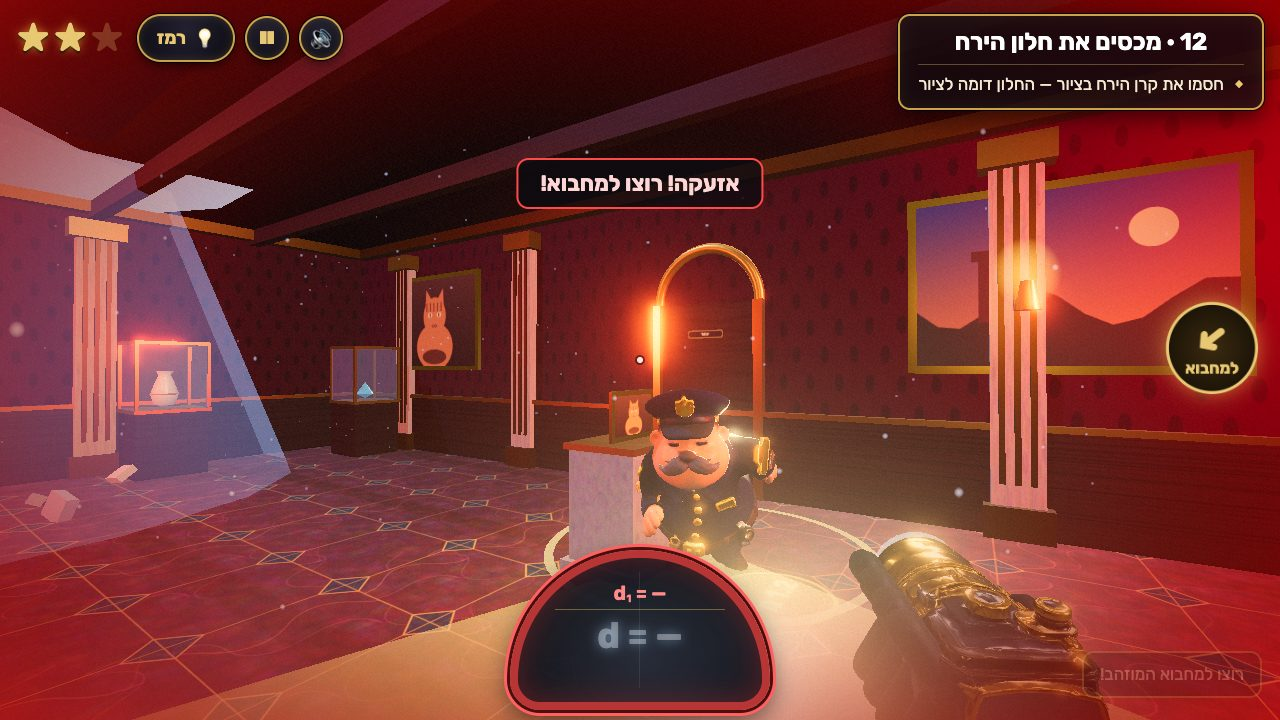
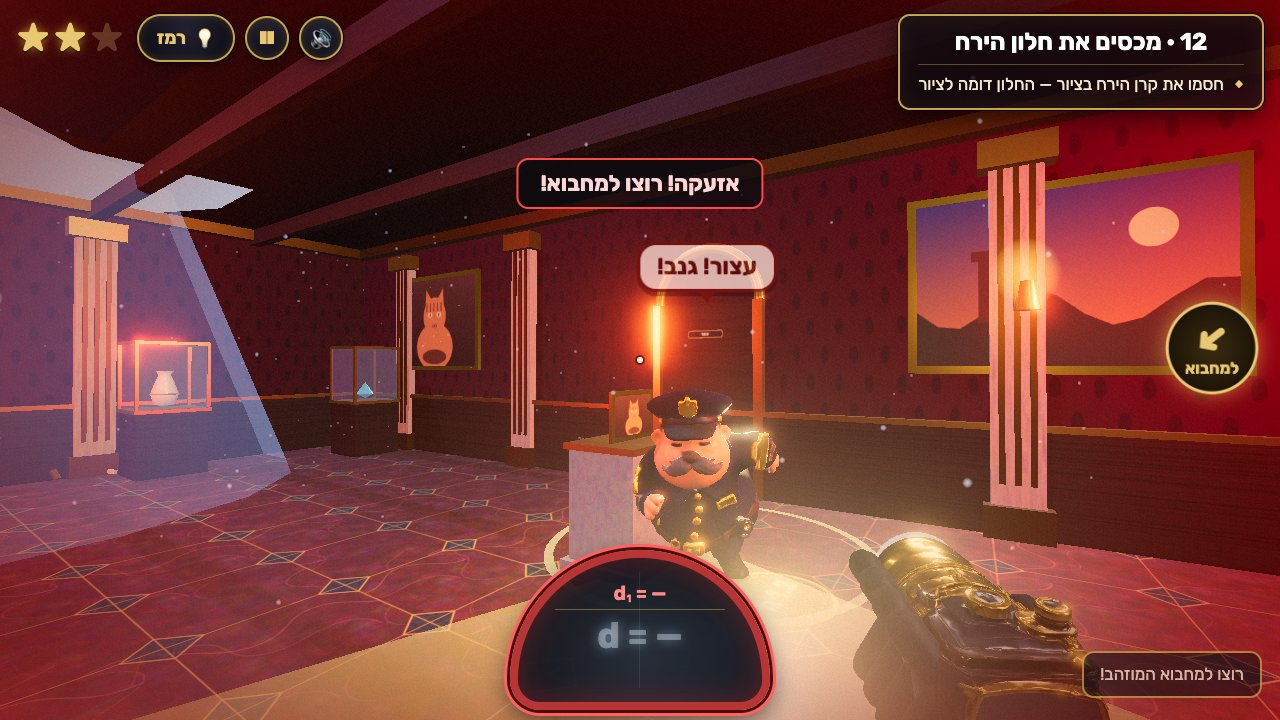
Refresh captures and docs for the 'even better' pass (all 18 levels re-verified 3 stars, 60 fps)

diff --git a/README.md b/README.md
@@ -9,10 +9,11 @@ Hebrew RTL UI, Three.js, 18 authored levels in 5 halls, plus generated "surprise
 ```bash
 npm install
 npm run dev        # http://localhost:5214  (strict port)
-npm test           # 64 unit tests: rules, all 18 levels solvable through the sim, misconception traps
+npm test           # 65 unit tests: rules, all 18 levels solvable through the sim, misconception traps
 npm run build      # static build in dist/ (relative base, works offline)
 npm run preview    # http://localhost:4214
 npm run capture    # needs the dev server: plays scenarios in headless Chromium, saves screenshots
+node tests/audio-check.mjs   # needs the dev server: measures each hall's music/ambience level, chase layer, heartbeat
 ```
 
 URL options: `?level=N` jumps into a level, `?unlock=all` unlocks the whole map (for teachers/testing).
@@ -32,14 +33,16 @@ The lens HUD shows the locked grab distance **d₁** and the live rangefinder di
 
 ## What's implemented
 
-- **18 authored levels** (`src/levels.ts`): Gallery of Lengths (1–5), Hall of Shadows (6–10, real shadow-casting light, AA similar triangles), Canvas & Carpet (11–15, perimeter k vs area k²), The Vault (16–17, k³ extension and congruence k = 1), and the no-hints rooftop finale at dawn (18) with a patrolling guard who only moves while you move. Each world ends in a transfer level. See `LEVELS.md` for every level's numbers and solution, and `CURRICULUM.md` for the Workbook module links.
+- **18 authored levels** (`src/levels.ts`; levels 9, 11, 15 and 16 re-authored from the handoff so that no fixed "drop at N × grab" wins more than 4 of 21 targets): Gallery of Lengths (1–5), Hall of Shadows (6–10, real shadow-casting light, AA similar triangles), Canvas & Carpet (11–15, perimeter k vs area k²), The Vault (16–17, k³ extension and congruence k = 1), and the no-hints rooftop finale at dawn (18) with a patrolling guard who only moves while you move. Each world ends in a transfer level. See `LEVELS.md` for every level's numbers and solution, and `CURRICULUM.md` for the Workbook module links.
 - **Pure math** in `src/rules.ts` (ratio, k windows for powers 1/2/3, drop verdicts, worked explanations, stars) and a **headless sim** in `src/sim.ts` (movement, aiming, grab/drop, consequences, guard, stealth). The Three.js scene only renders the sim.
 - **Consequences:** crash and roof-crash (alarm, guard chase, hide in a sarcophagus or get caught), fall-through, blown away by the vent fan, pocketed by the guard, too short, gap left, jam (wrong corresponding sides), not similar. Every mistake is recoverable and is followed by a worked-ratio card that reveals more on each repeated miss (ratio used → ratio kind → needed k). A drop anywhere but a target sends the exhibit back to its pedestal.
 - **Tripo 3D models** (`public/models/`, see `ASSETS.md`): rigged night guard (walk/run/look-around/scratch-head/fall), rigged raccoon accomplice (idle/greet/cheer), lens-in-glove view model, dinosaur crate, bust, statue, upright sarcophagus. Everything that carries a number is procedural and exact.
 - **Progression:** five halls, each a new subject at a higher tier — Gallery of Lengths (מתחילים), Hall of Shadows (בינוני), Canvas & Carpet (מתקדם), The Vault (מומחה · הרחבה), Rooftop finale (אתגר סופי). Levels unlock in order; a hall briefing introduces each new subject; any finished level can be replayed from the map for more stars; clearing a hall opens its **★ challenge rooms** (fresh solver-checked numbers every time).
-- **Presentation:** cinematic level intro (letterbox fly-in with hall, tier and objective; any key skips), results screen (stars, drop accuracy, time, badges, what you practised, what unlocked), success stamp with the k you used, slow-mo, gold shockwave, roof-crash camera tilt, per-hall music.
-- **Art:** per-hall inlaid marble floors / herringbone parquet, fluted pilasters, chandeliers, walnut-panelled mezzanines, glass display cases, a spotlight on every target, drifting dust, cinematic colour grade; a lit dawn skyline with string lights on the rooftop.
-- **3D level select** (a museum diorama on a planning table, right-to-left), stars and progress saved in `localStorage`, hints, pause (mouse sensitivity, reduced motion, mute), touch controls, Hebrew Rubik font bundled.
+- **Presentation:** cinematic level intro (letterbox fly-in with hall, tier and objective; any key skips), results screen (stars, drop accuracy, time and personal best, badges, **your worked solution** — ratio → k → d₂ — for every fit, what you practised, what unlocked, rank-ups), success stamp with the k you used, slow-mo, gold shockwave, roof-crash camera tilt. The guard and the raccoon talk in speech bubbles ("עצור! גנב!", "לאן נעלמת…?"); a player stuck for 40 s gets a free raccoon nudge that points at the placards/plates or restates d₂ = k × d₁ (never the answer).
+- **Sound:** all synthesized (no files): a lookahead music sequencer with a chord pad, pizzicato bass, brushed drums and a bell motif per hall, a generated hall reverb, a faster chase layer during the alarm, a heartbeat that quickens as the guard nears, and ambience per hall (room air, vault hum, rooftop wind).
+- **Progression extras:** thief ranks by total stars (כייס מתחיל → אגדת המוזיאון), personal-best time per level.
+- **Art:** per-hall inlaid marble floors / herringbone parquet, fluted pilasters, chandeliers, walnut-panelled mezzanines, glass display cases, a spotlight on every target, museum uplight washes in the Hall of Shadows, drifting dust, cinematic colour grade; a lit dawn skyline with string lights on the rooftop.
+- **3D level select** (a museum diorama on a chalk blueprint of the heist, right-to-left, a tiny guard patrolling the rooftop), stars and progress saved in `localStorage`, hints, pause (mouse sensitivity, reduced motion, mute), touch controls, Hebrew Rubik font bundled.
 - **Challenge rooms:** built from each hall's templates (two per hall) with new numbers, verified by the solver: solvable through the sim, and the constant "drop at 2× grab" strategy fails (tested on 100 seeds).
 - **Learning log:** anonymous local events (level, d₁, d₂, k, needed k, outcome, hint used, attempt, first unaided decision) in `localStorage` (`perspective-thief:learn`); `window.learning_log()` returns them.
 - **Test hooks:** `window.render_game_to_text()` (full state as JSON) and `window.advanceTime(ms)` (deterministic steps, respects pause).
@@ -52,7 +55,7 @@ The lens HUD shows the locked grab distance **d₁** and the live rangefinder di
 
 ## Measured
 
-- Production build: JS 875 KB (234 KB gzip), CSS 19 KB, models 5.9 MB total (`dist/` 7.2 MB). No runtime network requests beyond the static files.
+- Production build: JS 914 KB (247 KB gzip), CSS 19 KB, models 5.9 MB total (`dist/` 7.2 MB). No runtime network requests beyond the static files.
 - Frame rate (`node tests/perf.mjs`, headless Chromium on this Mac's GPU): 60 fps at 1280×720 and 1920×1080 on levels 1, 6, 12 and 18. Not measured on phones.
 
 ## Deploy to Vercel (when you want to)

diff --git a/progress.md b/progress.md
@@ -16,14 +16,15 @@ Original prompt: build Perspective Thief (גנב הפרספקטיבה), a real-3
 9. **AAA pass (user request: "make it look awesome… test each and every level… until it's perfect")**: audited all 18 levels from contact sheets; new room art (floors, pilasters, chandeliers, panels, cases, target spotlights, dust, grade), deep chasm, gloved brass lens, rooftop city/sun/string lights; cinematic intro, hall briefings with difficulty tiers, results screen with accuracy and badges, challenge rooms on the map (two templates per hall), success stamp, slow-mo, shockwave, per-hall music, sensitivity setting. Fixed z-fighting, and a global bug where sun shadows only existed within 5 m of each room's centre.
 10. **Round-2 playtest** (`PLAYTEST2.md`): every level played with three wrong drops each; 21 findings; all but the ×3-constant one fixed (see the response table). Re-verified all 18 levels in the browser.
 
+11. **"Make it even better" pass**: re-authored levels 9 (k 3.5, a 1.75 m balcony you can't climb), 11 (k 3.5), 15 (k 4, a bigger frame) and 16 (k 2) so "always drop at 3× grab" wins 3 targets instead of 7 (traps test now caps every constant at 4 targets / 3 levels); new audio engine (per-hall layered music, reverb, chase layer, heartbeat, ambience; `tests/audio-check.mjs`); guard and raccoon speech bubbles; worked solution on the results screen; personal bests and thief ranks; idle raccoon nudge; uplight washes in the Hall of Shadows; chalk blueprint and a patrolling guard on the map; fixed giant sparkles around tall held objects.
+
 ## State
 
-- `npm test`: 64/64 pass. `npm run build`: OK. Dev server: port 5214.
-- Measured 60 fps (headless GPU, 720p/1080p). Bundle: JS 875 KB (234 KB gz), models 5.9 MB.
+- `npm test`: 65/65 pass. `npm run build`: OK. Dev server: port 5214.
+- Measured 60 fps (headless GPU, 720p/1080p). Bundle: JS 914 KB (247 KB gz), models 5.9 MB.
 
 ## TODO / ideas
 
 - More set dressing per hall (display cases, armour, vases) to reach the mockups' density.
-- A darker, moodier Hall of Shadows.
 - Real-device check (phone/tablet), a classroom test with students.
 - Optional: code-split three.js examples to shrink the first load.

diff --git a/docs/VISUAL_REVIEW.md b/docs/VISUAL_REVIEW.md
@@ -1,5 +1,7 @@
 # Visual review — mockups vs the real game
 
+> **Update 2026-10-31 ("even better" pass):** the level-select table is now a chalk blueprint of the heist (lens rule, similar triangles, the length/area/volume ratios) with a tiny guard patrolling the rooftop diorama (`00-menu.jpg`); the Hall of Shadows has museum uplight washes so its walls read in the dark (`levels-*-aim.jpg`, levels 6–10); the guard and raccoon speak in speech bubbles (`03b-guard-chase.jpg`); the results screen shows your worked solution and personal best (`05c-results.jpg`).
+
 > **Update 2026-10-31 (AAA pass):** the halls now have per-hall inlaid marble floors (herringbone parquet in the Hall of Shadows), fluted marble pilasters, chandeliers, walnut-panelled mezzanines, glass display cases, a spotlight on every target, drifting dust, soft window shafts, a cinematic grade, and the first-person view is a brass lens in a black glove (as in the mockups). New screens: the letterbox level intro (`05-intro-cinematic.jpg`), hall briefing with the difficulty tier (`05b-hall-briefing.jpg`) and the results screen (`05c-results.jpg`). Every level's aim view is in `levels-01-09-aim.jpg` and `levels-10-18-aim.jpg`. The notes below were written before this pass; where they say the scenes are plainer than the mockups or that the lens reads as a camera, that is no longer the case.
 
 Targets: `docs/visual-targets/01–04` (ChatGPT image generation, design targets only; see `PROMPTS.md`).
